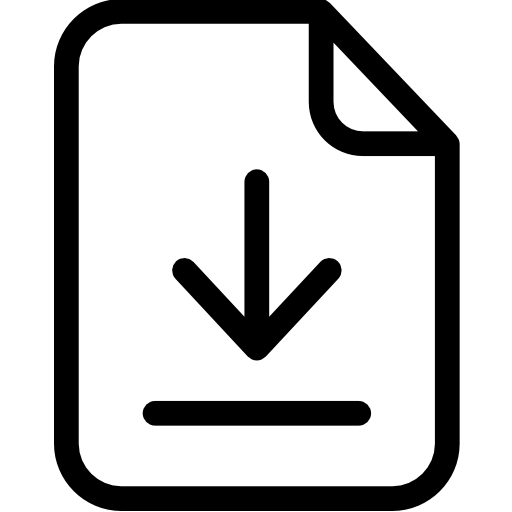
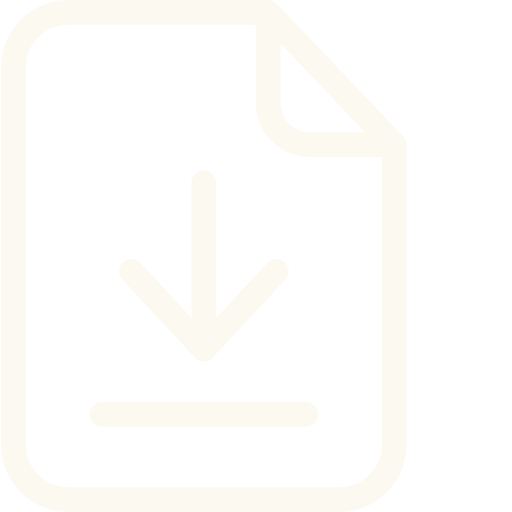
Last changes for the graded grill

Changed region(s): [[0.0938, 0.0, 0.9062, 1.0], [0.3125, 0.3125, 0.6875, 0.7188], [0.2812, 0.7812, 0.75, 0.8438]]

diff --git a/index.html b/index.html
@@ -17,7 +17,7 @@
              <nav class="navbar">
 				<div class="logo-titre">
 					<a href="#top"><img src="./images/logo.png" alt="logo photo" class="logo"/></a>
-					<h1>My Portfolio</h1>
+					<a href="#top"><h1>My Portfolio</h1></a>
 				</div>
 
 					<ul class="nav-links">
@@ -30,6 +30,7 @@
 									<li><a href="#studies">STUDIES</a></li>
 									<li><a href="#skill">SKILL</a></li>
 									<li><a href="#hobies">HOBIES</a></li>
+									<li><a href="#internships">INTERNSHIPS</a></li>
 								</ul>
 						</li>
 						<li><a href="#CV">CONTACT</a></li>
@@ -90,11 +91,14 @@
                     <p>
                         My name is Glory, and I’m a student at the University of Paris-Saclay in France.
                         I am passionate about web design, development, digital projects, and coding in general.
+						I have a B2 level in English, a C2 level in French and a A2 level in Spanish!!
                         I built this portfolio to showcase my work, share what I’m learning, and track my growth.
                         <br><br>
                         Here, you’ll find my projects, my skills, and a lot more!
-                        This website isn’t just a gallery, it’s a space where I experiment, improve,
-                        and move forward step by step in the world of digital creation.
+                        This website isn’t just a gallery, it’s a space where I experiment and improve.
+                        <br><br>
+						After my Bachelor of Technology (BUT), I'd like to start working immediately, ideally through a work-study program. Otherwise, I'll continue my studies with a Master's degree.
+						When I finish my studies, I'd like to become a front-end developer, an AI developer, or a video game developer.
                         <br><br>
                         Thank you for visiting, and enjoy exploring!
                     </p>
@@ -166,7 +170,10 @@
       <a href="https://github.com/GloryBamazi/cpp-mini-game" target="_blank"><h2>Mini jeu vidéo en C++</h2></a>
       <p>
 		As part of my studies at the IUT of Paris-Saclay, I developed a small video game in C++ from scratch over several months. The project involved designing gameplay mechanics such as avoiding enemies and collecting coins, while progressively adding new features.
-		This experience allowed me to work on object-oriented programming, game logic, event handling, and code structure, while strengthening my problem-solving and debugging skills.      </p>
+		This experience allowed me to work on object-oriented programming, game logic, event handling, and code structure, while strengthening my problem-solving and debugging skills.     
+		</p>
+		<p style="color:Gray;">#C++</p>		
+			
     </div>
   </div>
 
@@ -176,7 +183,9 @@
     <div class="content">
       <a href="https://celiapplepi.itch.io/firework-rush"><h2>CodeJam</h2></a>
       <p>
-		During an event called the "Code Game Jam", we created a video game in a group of 6, coded in C# with Unity. It taught me how to work in a team and helped me develop new skills, such as C# and game development with Unity.      </p>
+		During an event called the "Code Game Jam", we created a video game in a group of 6, coded in C# with Unity. It taught me how to work in a team and helped me develop new skills, such as C# and game development with Unity.      
+		</p>
+		<p style="color:Gray;">#C#(CSharp), #github, #Unity</p>
     </div>
   </div>
 
@@ -188,6 +197,8 @@
       <p>
         From brand identity to the final launch, we had to designed and built this website for a fictional travel agency. I conceptualized the travel offers and developed a fully functional, responsive interface. This project demonstrates my ability to handle a web project from scratch with both creativity and technical rigor.
       </p>
+	  <p style="color:Gray;"> #HTML, #CSS, #Javascript, #gitLab</p>
+	  
     </div>
   </div>
   
@@ -197,7 +208,8 @@
       <h2>Python games</h2>
       <p>
        I developed several mini-games in Python, including a Hangman game and a "Towers of Hanoi" simulation. These projects focused on mastering list manipulation, stacks, and recursion logic. It was a great way to strengthen my algorithmic thinking and code organization skills.
-      </p>
+      </p><p style="color:Gray;"> #Python </p>
+	  
     </div>
   </div>
   
@@ -207,7 +219,8 @@
       <a href="https://design.penpot.app/#/view?file-id=e89d4c9d-410d-8024-8007-8dfca3f8b2d3&page-id=e89d4c9d-410d-8024-8007-8dfca3f8b2d4&section=interactions&index=0&share-id=dd30d345-3fda-8112-8007-988ae4f25b9b"><h2>Wireframe for a music app</h2></a>
       <p>
         Using Penpot, I created an interactive high-fidelity mockup for a music streaming application. The project included designing features like "Favorites" and playback controls. By building animated prototypes, I learned how to design intuitive user flows and prioritize user-centered design principles.
-      </p>
+       </p>
+	   <p style="color:Gray;"> #UX/UI, #Penpot/Figma, #Design</p>
     </div>
   </div>
 
@@ -221,7 +234,8 @@
 		<li>
 		  <div class="content">
 			<h2>first Choice ~ Canada</h2>
-			<p>I originally planned to study in Canada and had my heart set on the University of Ottawa, my top choice. I applied to three universities: Ottawa, Toronto, and Waterloo.All of them accepted me.</p>
+			<p>After obtaining my French baccalaureate (with highest honors) in Burkina Faso (Saint-Exupéry school) I originally planned to study in Canada 
+			and had my heart set on the University of Ottawa, my top choice. I applied to three universities: Ottawa, Toronto, and Waterloo.All of them accepted me.</p>
 		</div>
 		  <div class="time">
 			<h4>Febuary 2025</h4>
@@ -346,7 +360,50 @@
 								</div>
 								
 							</div>
-						</div>
+						</div>ù
+						
+			<section id="internships">
+				<center><h2>Career path and internships</h2></center>
+				<div class="timeline">
+			  <ul>
+				<li>
+				  <div class="content">
+					<h2>Web Development Intern June</h2>
+					<p>ACCM Real Estate Agency · Ouagadougou, Burkina Faso<br>
+					House viewings for clients, property inspections, setting up an official website for the agency...
+					</p>
+				</div>
+				  <div class="time">
+					<h4>Sept. 2024</h4>
+				  </div>
+				</li>
+				
+				<li>
+				  <div class="content">
+					<h2>IT Intern </h2>
+					<p>STIC Informatique · Niamey, Niger<br>
+					Learning to code in HTML/CSS, to write effectively in Word/Excel/PowerPoint...
+					</p>
+				  </div>
+				  <div class="time">
+					<h4>Jan – Feb. 2023</h4>
+				  </div>
+				</li>
+				
+				<li>
+				  <div class="content">
+					<h2>Intern Sales & Customer Relations</h2>
+					<p>Numero Uno Niamey, Niger<br>
+					Customer reception, tidying, stocking shelves, assisting with sales/cashier duties
+					</p>
+				  </div>
+				  <div class="time">
+					<h4>Apr – Jun. 2019</h4>
+				  </div>
+				</li>
+			  </ul>
+			</div>
+		</section>
 
 				<section id="CV">
 				<img src="./images/file.png" alt="logo de cv">
@@ -354,8 +411,6 @@
 					<p>Check out my full resume to learn more about my background, experiences and technical skills.</p>
 					<a href="./images/cv.pdf" class="resume">Take a look At my Resume</a>
 				</section>
-
-
 
 
 		<section class="contact-section" id="contact">

diff --git a/styles/index.css b/styles/index.css
@@ -171,7 +171,11 @@ i{
     cursor: pointer;
 }
 
-
+a h1{
+	text-decoration: none;
+	color: #FCF9F1;
+	
+}
 /*--------------------------------------Sub Menu Home-----------------------------*/
 
 .ASubmenu{
@@ -704,6 +708,16 @@ ul li a{
 }
 
 
+/* ---------------- Internship ---------------- */
+#internships center h2{
+	margin-top:0;
+	text-align:center;
+	color:#5B0000;
+	font-size:35px;
+	letter-spacing:2px;
+}
+
+
 /* ---------------- Resume ---------------- */
 
 #CV {
@@ -712,6 +726,7 @@ ul li a{
     align-items: center;    /* Centre horizontalement */
     text-align: center;     /* Centre le texte des paragraphes/titres */
     padding: 50px 20px;
+	background-color: #5B0000;
 }
 
 #CV img{
@@ -726,20 +741,22 @@ ul li a{
 	font-weight:bold;
 	font-size:35px;
 	text-align: center;
+	color: #FCF9F1;
 }
 
 #CV p{
 	justify-content:center;
 	margin:20px;
 	text-align: center;
+	color: #FCF9F1;
 }
 
 .resume {
     display: inline-block;  /* Permet de donner une forme au lien */
     text-decoration: none;
     border-radius: 30px;
-    background-color: #5B0000;
-    color: #FCF9F1;
+    background-color: #FCF9F1;
+    color: #5B0000;
     padding: 15px 30px;
     font-weight: bold;
     transition: transform 0.2s; /* l'effet au survol */
@@ -754,11 +771,11 @@ ul li a{
 /* ---------------- CONTACT ---------------- */
 .contact-section {
     padding: 100px 0;
-    background-color: #5B0000;
+    background-color:#FCF9F1;
 }
 
 .contact-section .container .contact-form h2{
-	color: #FCF9F1;
+	color: #5B0000;
 }
 
 
@@ -789,7 +806,7 @@ ul li a{
 
 .form-group input:focus, .form-group select:focus, .form-group textarea:focus {
     outline: none;
-    border-color: #FCF9F1;
+    border-color: #5B0000;
     box-shadow: 0 0 0 2px rgba(200, 169, 126, 0.2);
 }
 
@@ -800,14 +817,14 @@ ul li a{
 
 .contact-info {
     padding: 30px;
-    background-color:#FCF9F1;
+    background-color:#5B0000;
     border-radius: 10px;
 }
 
 .contact-info h3 {
     margin-bottom: 30px;
     font-size: 24px;
-	color:#5B0000;
+	color:#FCF9F1;
 }
 
 .info-item {
@@ -818,14 +835,14 @@ ul li a{
 }
 
 .info-item i {
-    color: #5B0000;
+    color: #FCF9F1;
     margin-right: 12px;
     font-size: 18px;  
     margin-top: 5px;
 }
 
 .info-item p {
-    color: #5B0000;
+    color: #FCF9F1;
 }
 
 .social-links {
@@ -835,7 +852,7 @@ ul li a{
 }
 
 .social-links a i{
-	color:#5B0000;
+	color:#FCF9F1;
 }
 
 .social-links a {
@@ -845,8 +862,8 @@ ul li a{
     width: 40px;
     height: 40px;
     border-radius: 50%;
-    background-color: #FCF9F1;
-    color: #5B0000;
+    background-color: #5B0000;
+    color:#FCF9F1;
     margin-right: 10px;
     transition: all 0.3s ease;;
 }
